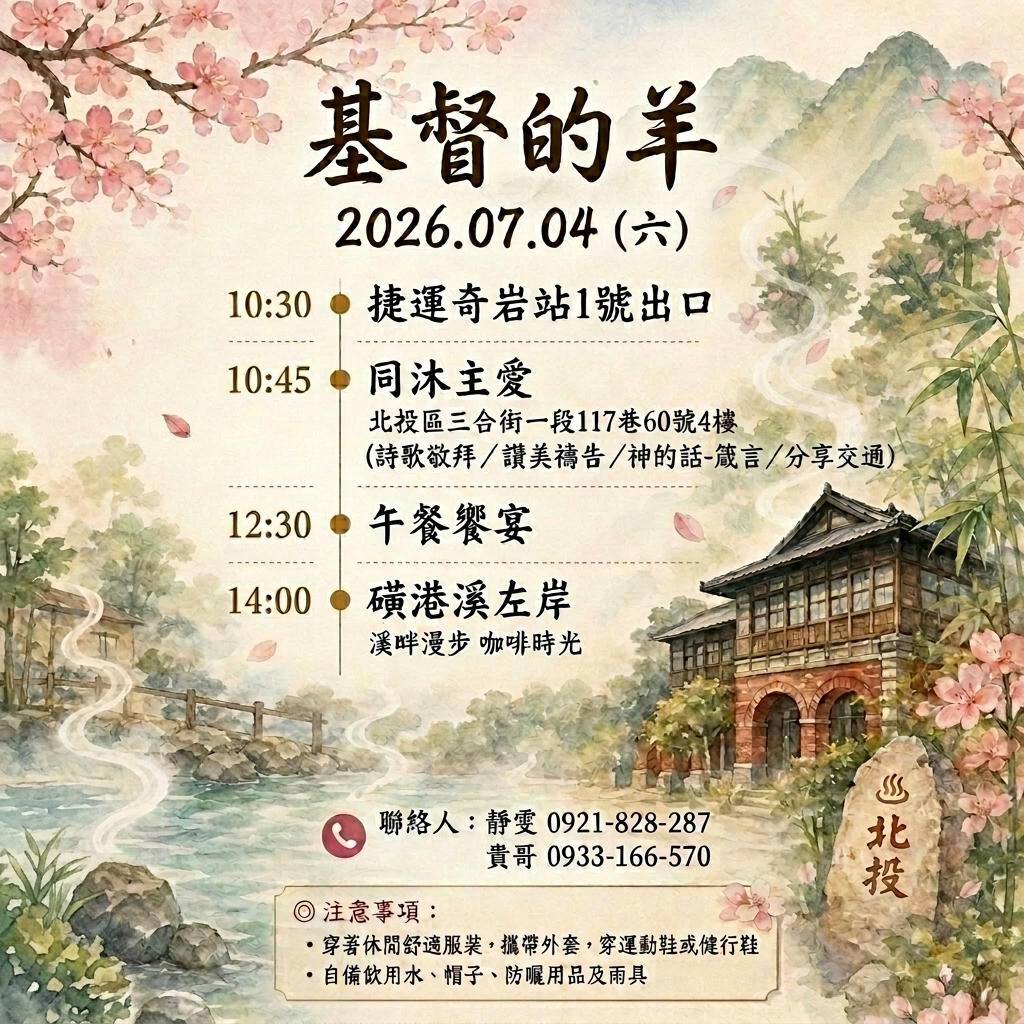
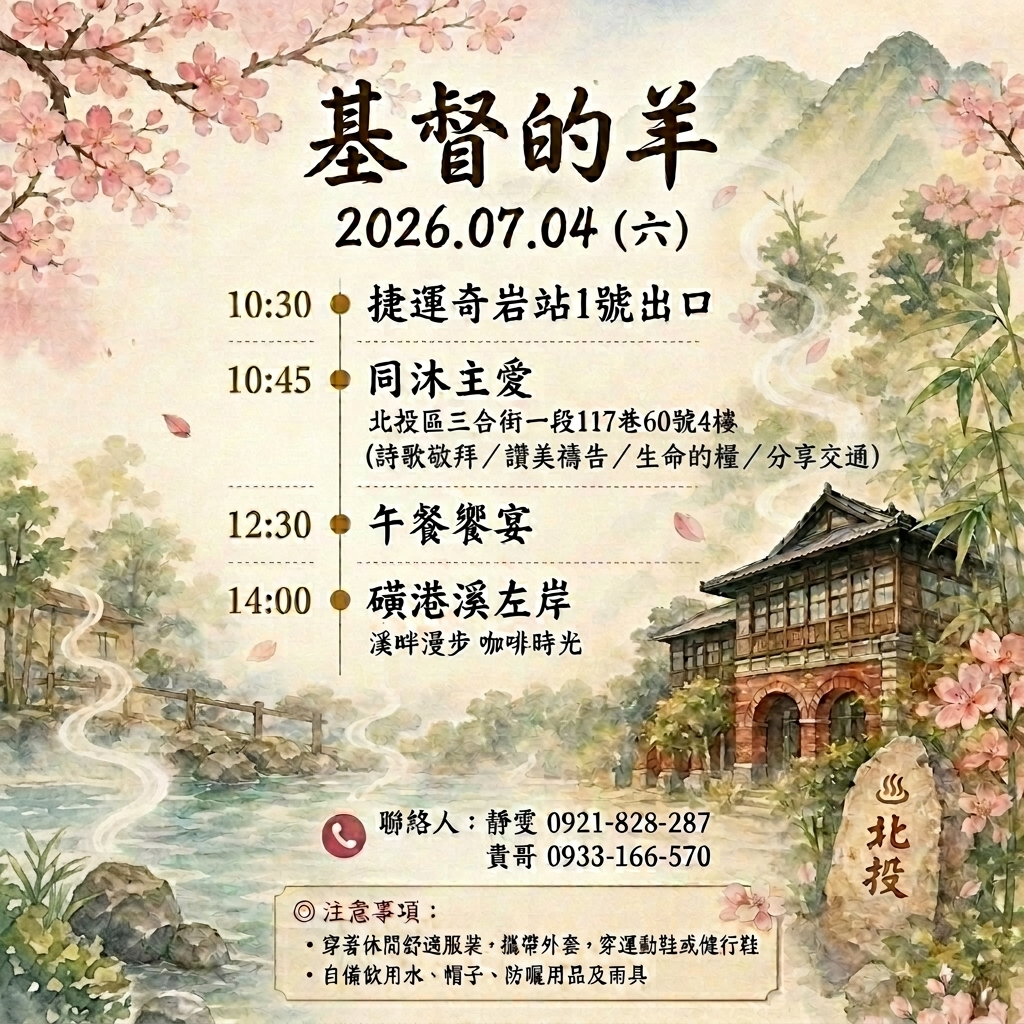
Update: 更新基督的羊聚會海報與流程文字 (生命的糧)

Changed region(s): [[0.375, 0.4062, 0.875, 0.4688], [0.5, 0.9062, 0.5312, 0.9375], [0.4688, 0.7812, 0.5, 0.8125]]

diff --git a/christ-sheep.html b/christ-sheep.html
@@ -188,7 +188,7 @@
               <svg class="sched-chevron w-5 h-5 ml-1 text-violet-600" xmlns="http://www.w3.org/2000/svg" viewBox="0 0 24 24" fill="none" stroke="currentColor" stroke-width="2" stroke-linecap="round" stroke-linejoin="round"><path d="m9 18 6-6-6-6"/></svg>
             </h4>
             <p class="text-sm text-gray-500">北投區三合街一段117巷60號4樓</p>
-            <p class="text-xs text-violet-600 font-medium mt-1">詩歌敬拜 ／ 讚美禱告 ／ 神的話-箴言 ／ 分享交通</p>
+            <p class="text-xs text-violet-600 font-medium mt-1">詩歌敬拜 ／ 讚美禱告 ／ 生命的糧 ／ 分享交通</p>
           </div>
         </div>
 
